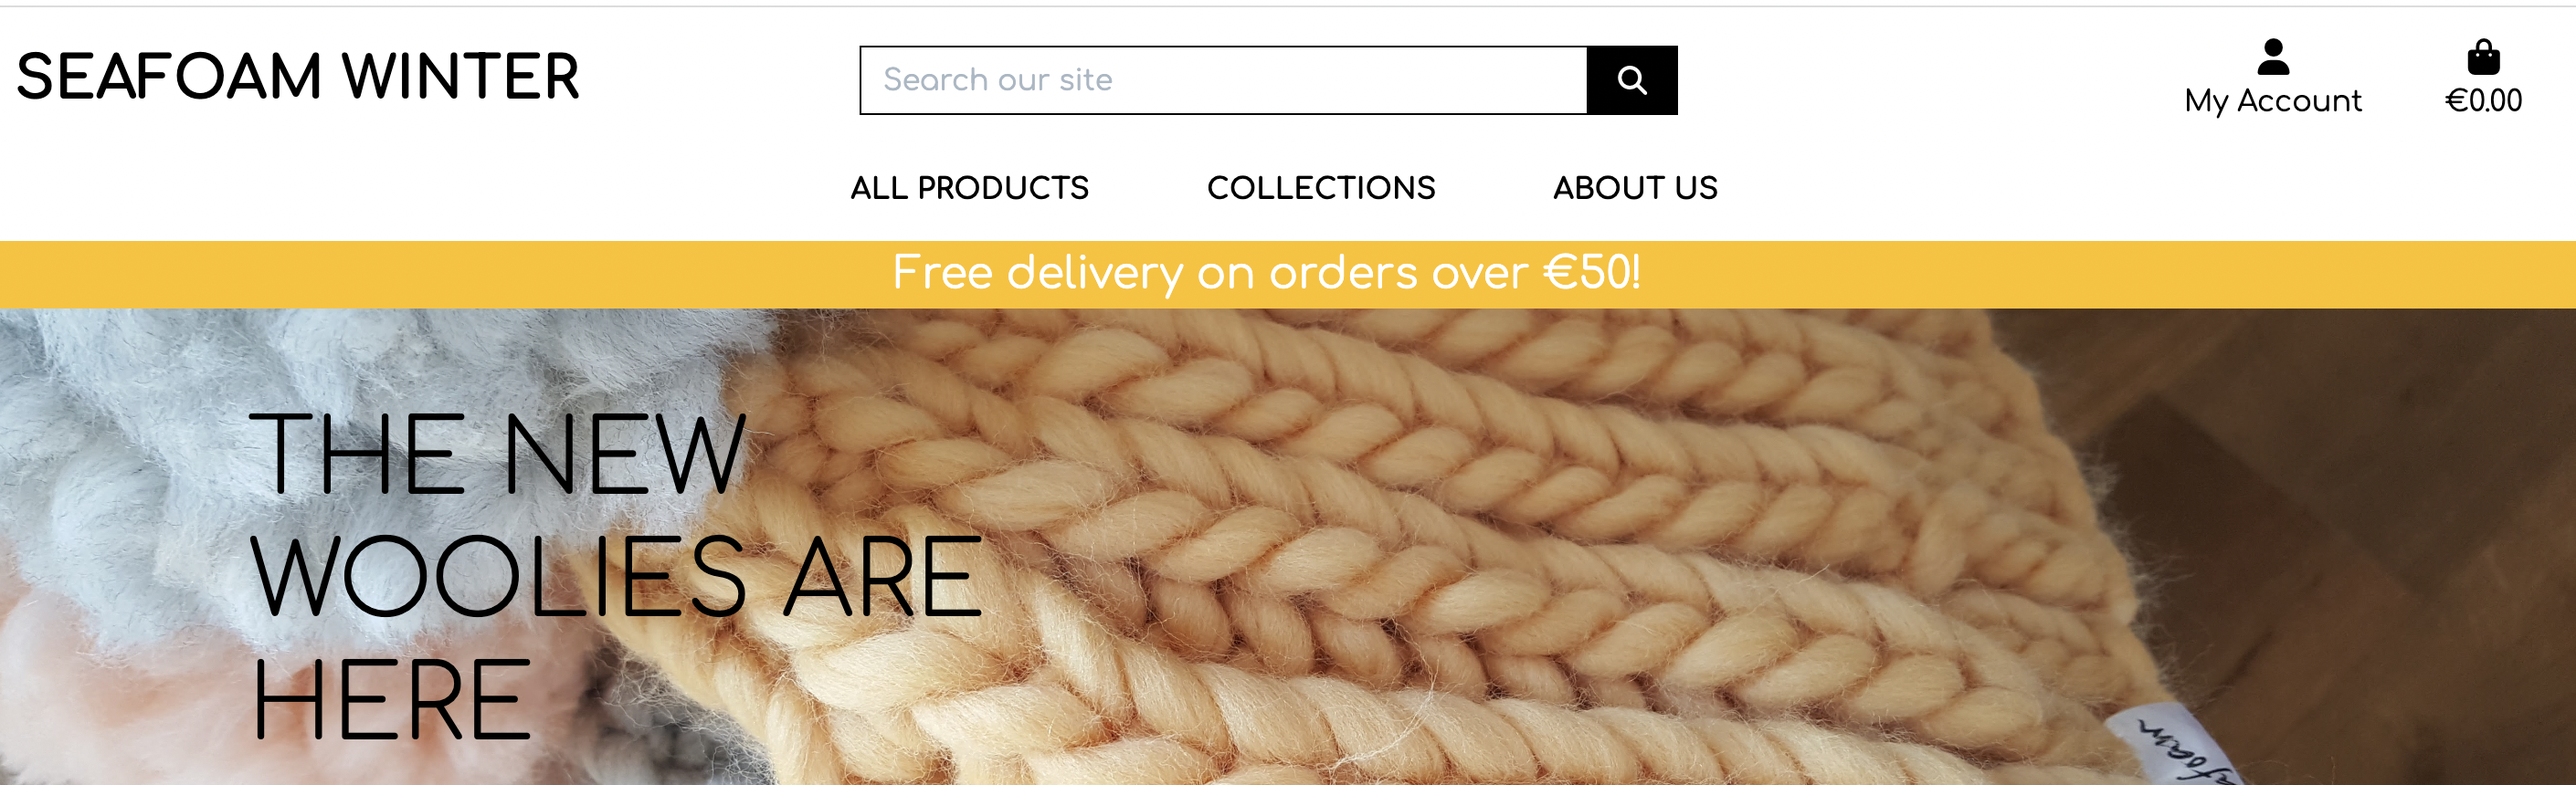
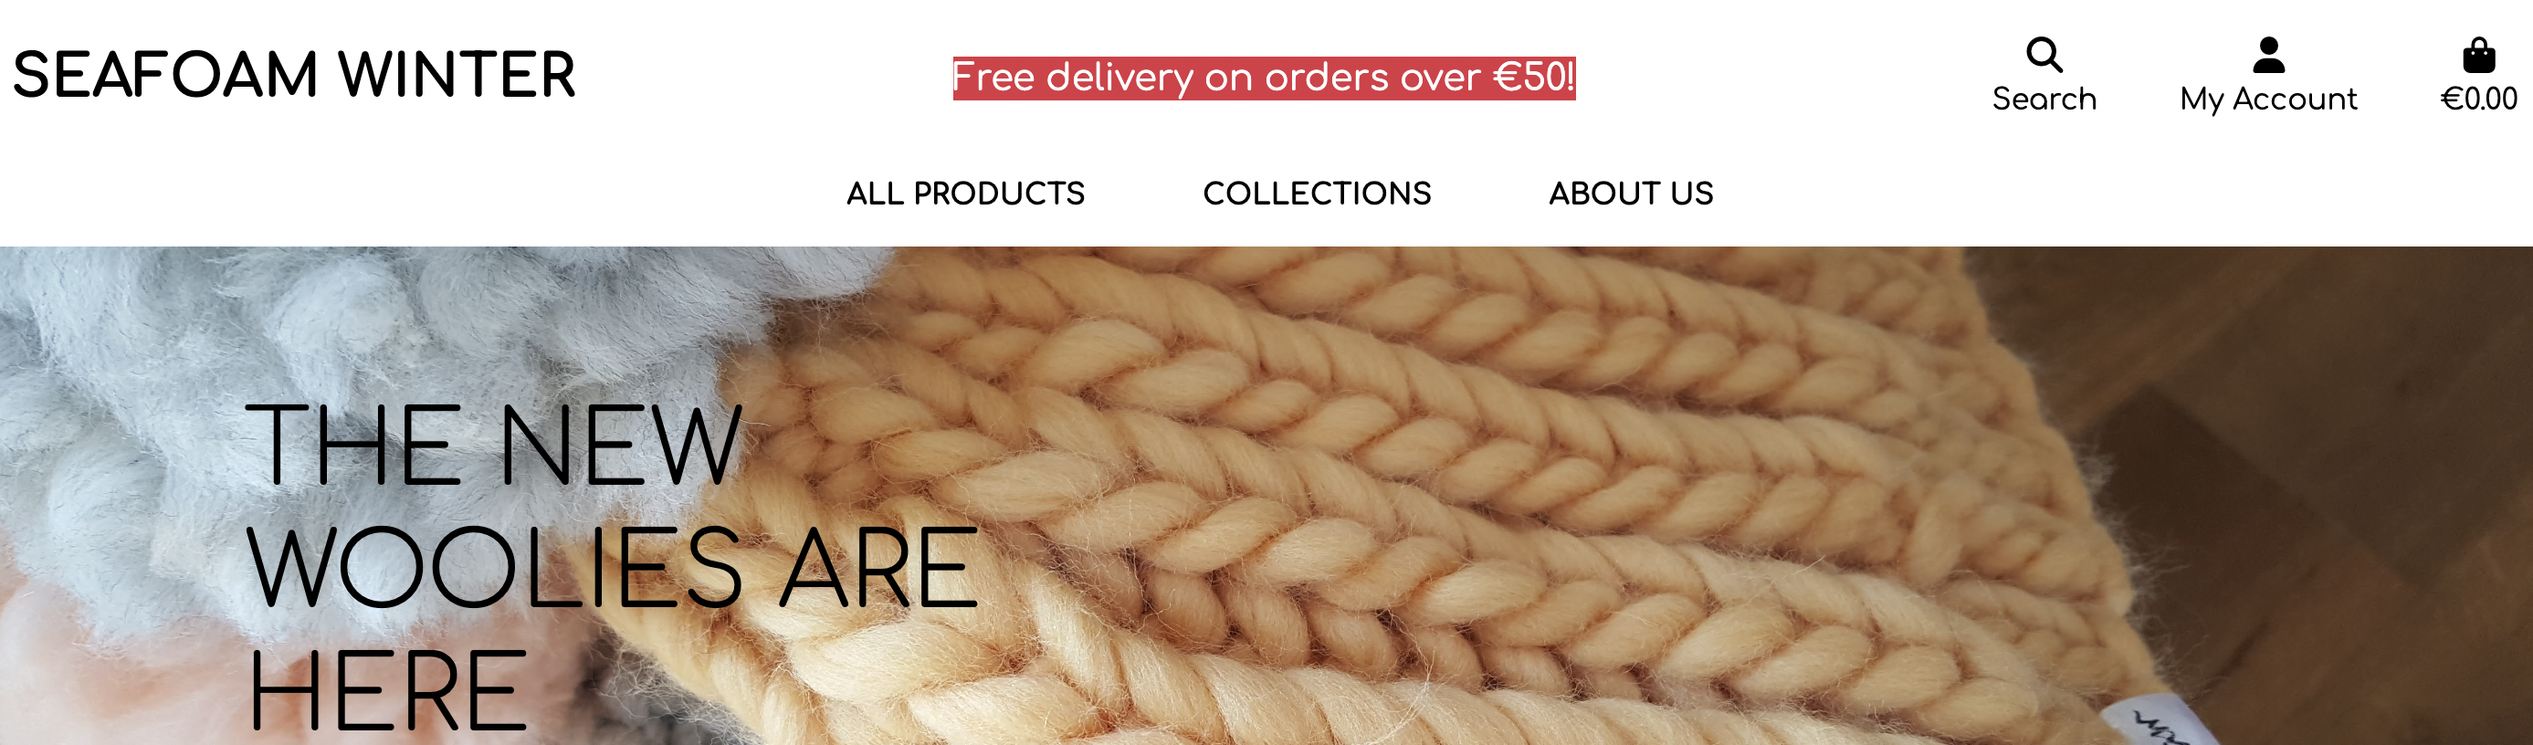
improve layout of home page on mobile

diff --git a/static/css/base.css b/static/css/base.css
@@ -327,6 +327,14 @@ input[name='q']::placeholder {
         padding-top: 250px;
     }
 
+    .nav-link {
+        font-size: 12px !important;
+    }
+
+    .logo-font {
+        font-size: 35px;
+    }
+
     .color-picker {
         height: 120px;
         border-radius: 0px;

diff --git a/seafoam_winter/settings.py b/seafoam_winter/settings.py
@@ -25,8 +25,8 @@ BASE_DIR = Path(__file__).resolve().parent.parent
 SECRET_KEY = os.environ.get('SECRET_KEY','')
 
 # SECURITY WARNING: don't run with debug turned on in production!
-# DEBUG = 'DEVELOPMENT' in os.environ
-DEBUG = True
+DEBUG = 'DEVELOPMENT' in os.environ
+
 
 ALLOWED_HOSTS = ['seafoam-winter.herokuapp.com', 'localhost']
 
@@ -211,7 +211,7 @@ DEFAULT_AUTO_FIELD = 'django.db.models.BigAutoField'
 # Stripe
 FREE_DELIVERY_THRESHOLD = 50
 STANDARD_DELIVERY_PERCENTAGE = 10
-STRIPE_CURRENCY = 'usd'
+STRIPE_CURRENCY = 'eur'
 STRIPE_PUBLIC_KEY = os.getenv('STRIPE_PUBLIC_KEY','')
 STRIPE_SECRET_KEY = os.getenv('STRIPE_SECRET_KEY','')
 STRIPE_WH_SECRET = os.getenv('STRIPE_WH_SECRET','')

diff --git a/README.md b/README.md
@@ -46,6 +46,7 @@ This website was based on the walk through project 'Boutique Ado' by [Code Insti
 
     <img src="media/screen4.png" width="500"/><br>
     <img src="media/screen5.png" width="500"/><br>
+    <img src="media/screen9.png" width="500"/><br>
 
     Covering user stories:
     1. As a returning user, I want to find out how I can search and filter for specific products.
@@ -83,10 +84,6 @@ This website was based on the walk through project 'Boutique Ado' by [Code Insti
 
 
 ### _Features Left To Implement_
-
-- __Shop by colour__
-
-    The original plan was to have a colour picker feature, but due to lack of time this wasn't implemented.
 
 - __Custom order form__
 
@@ -127,9 +124,12 @@ This website was based on the walk through project 'Boutique Ado' by [Code Insti
 ---
 
 - [HTML](https://jigsaw.w3.org/css-validator/#validate_by_input)
+    No errors, with exception of template logic
 - [CSS](https://jigsaw.w3.org/css-validator/validator)
-- [JSLint](https://www.jslint.com/)
+    No errors found
 - Manual testing
+    The website was extensively manually tested on different devices in the developing process.
+    The user stories were followed and bugs fixed as I came across them in development.
 
 ## Deployment
 ---
